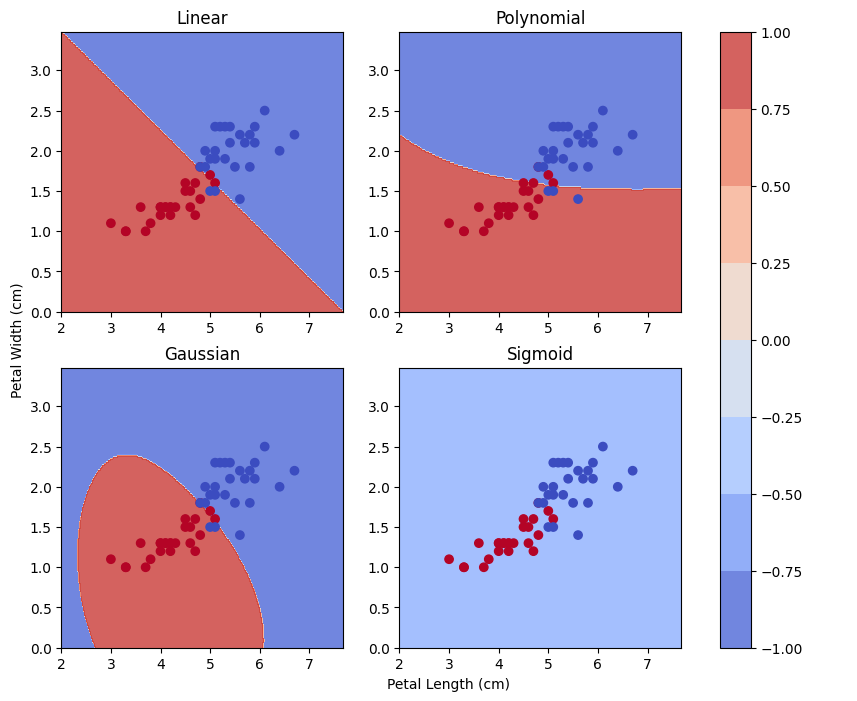
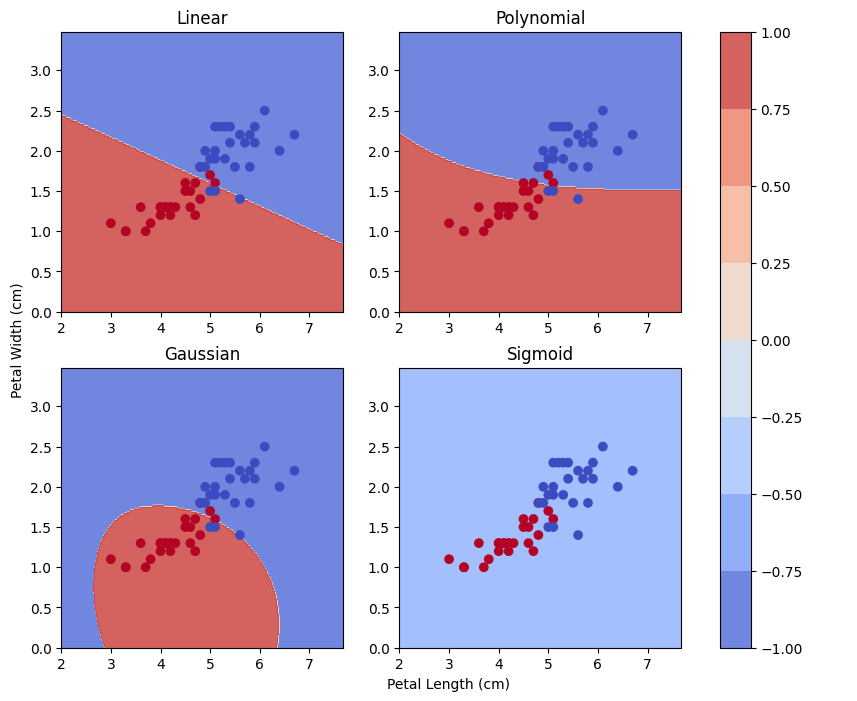
Added param, c, to SVM constructor

diff --git a/src/test_SVM.py b/src/test_SVM.py
@@ -10,7 +10,7 @@ import plot_Data
 
 test_all = False # If true, predicts using all dataset samples, not just testing samples.
 normalize = False # If true, all data is normalized
-standardize = False # If true, all data is standardized
+standardize = True # If true, all data is standardized
 
 def main():
     # Re-split data
@@ -32,9 +32,9 @@ def main():
     all_data = Dataset.readCSV("./utils/iris_original.csv")
     [x_all, y_all] = Dataset.splitAndEnumData(all_data, label_map)
 
-    # Reduce training and testing data to sepal width and length
-    c1 = 2 # for best results, use col 2. for worst results, use col 0.
-    c2 = 3 # for best results, use col 3. for worst results, use col 1.
+    # Reduce training and testing data to sepal length and width
+    c1 = 0 # for best results, use col 2. for worst results, use col 0.
+    c2 = 1 # for best results, use col 3. for worst results, use col 1.
     [x_train, x_test] = plot_Data.reduceDataset2D(x_train, x_test, col1=c1, col2=c2)
     [x_all, x_all] = plot_Data.reduceDataset2D(x_all, x_all, col1=c1, col2=c2)
 
@@ -53,13 +53,14 @@ def main():
     C = 1.0
     sigma = 1.0
     m = 2
+    c = 1
     gamma = 1 / len(x_test[1,:]) # 1 / number of features
  
     SVMs = []
     kernels = ["linear", "polynomial", "gaussian", "sigmoid"]
     features = ["Sepal Length","Sepal Width","Petal Length","Petal Width"]
     for kernel_type in kernels:
-        svm = SVM(kernel_type=kernel_type, C=C, sigma=sigma, m=m, gamma=gamma)
+        svm = SVM(kernel_type=kernel_type, C=C, sigma=sigma, m=m, c=c, gamma=gamma)
         start = time.time()
         svm.trainSVM(x_train, y_train)
         end = time.time()

diff --git a/src/SVM.py b/src/SVM.py
@@ -23,7 +23,7 @@ class SVM:
     gamma = 0.25
 
     # Constructor
-    def __init__(self, tol=pow(10,-3), eps=pow(10,-3), C=1.0, kernel_type="linear", sigma=1.0, m=2, gamma=0.25):
+    def __init__(self, tol=pow(10,-3), eps=pow(10,-3), C=1.0, kernel_type="linear", sigma=1.0, m=2, c=1.0, gamma=0.25):
         # Set model parameters
         self.tol = tol
         self.eps = eps
@@ -31,6 +31,7 @@ class SVM:
         self.kernel_type = kernel_type
         self.sigma = sigma
         self.m = m
+        self.c = c
         self.gamma = gamma
 
     def trainSVM(self, x_train, y_train):
